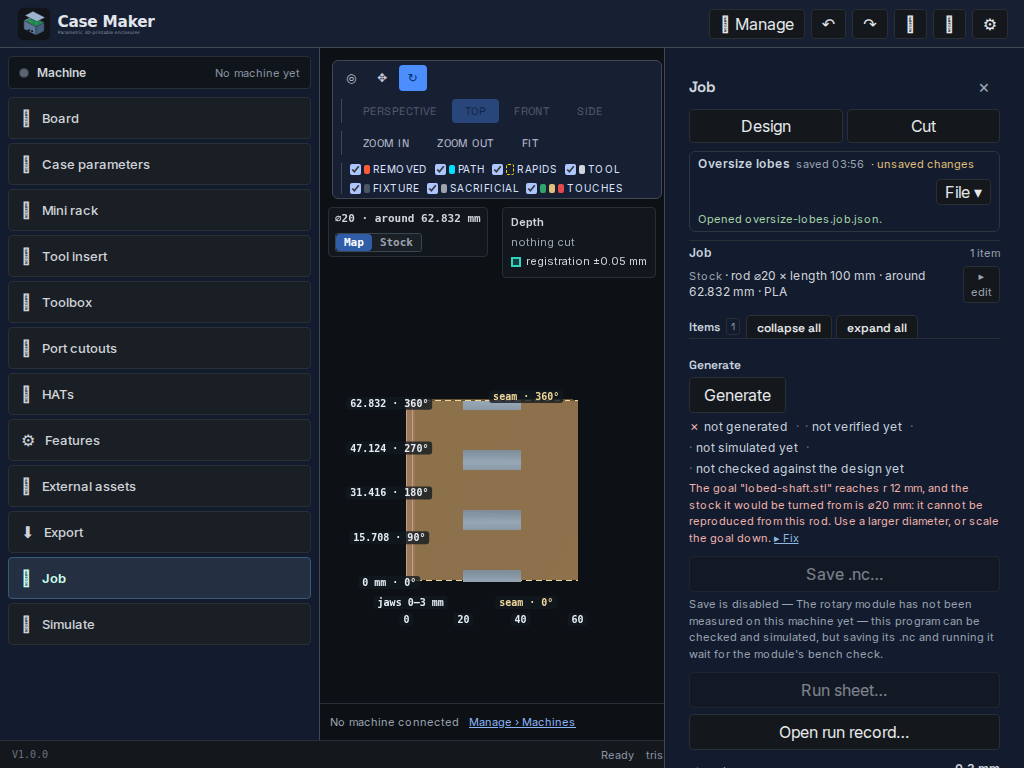
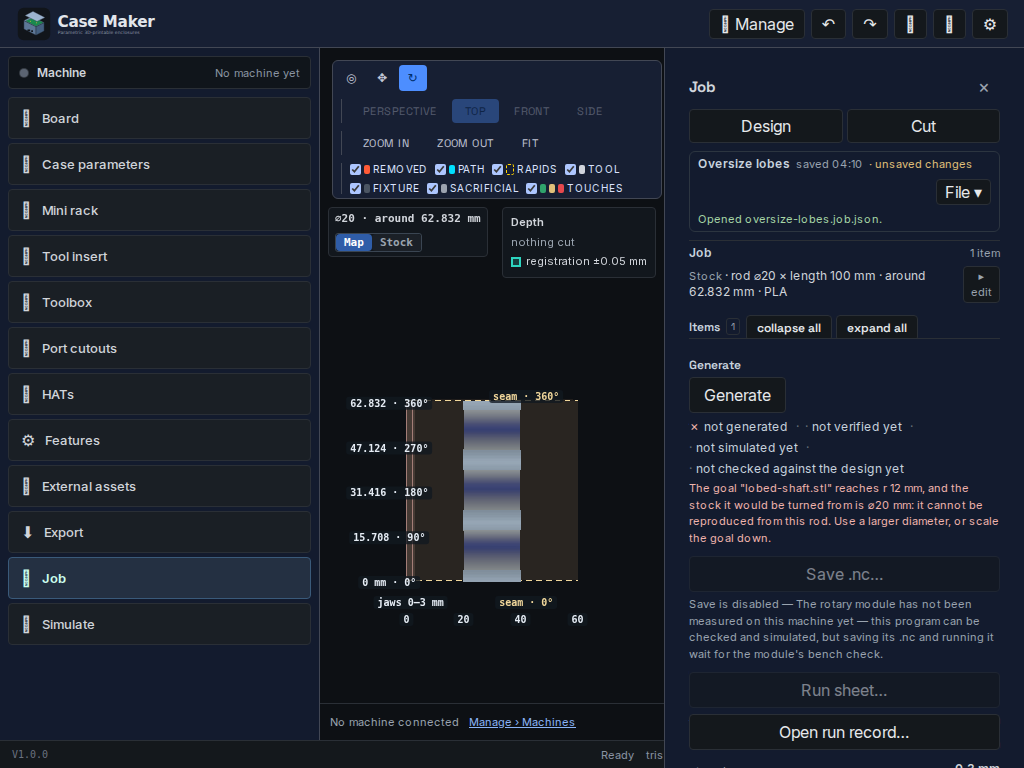
fix(sim): a rotary stock is drawn as the engine made it (#723 R-4 review follow-up)
The turning view still drew the ⌀20 rod as a flat-sided wedge with triangular gaps at both ends
and a sliver along the bottom, before and after the winding fix — because the wound mesh was never
the one on screen. `SimMeshes` runs every COLUMN stock through `cleanStockGeometry`, the #552
cleanup written for the FLAT box: drop every triangle whose normal has no Z component, then
rebuild the four sides as bbox planes. On a rod that deletes both cap fans (normal ±X) and wraps
the cylinder in a box 2R square — a flat front wall, square end plates and their corners hanging
past the silhouette. The cleanup now applies to the flat column stock only; the rotary meshes are
clean by construction (a curved heightfield, cap fans and cut-following skirt quads) and are used
exactly as the engine made them.

The depth ramp also painted the rod's END FACE blue: a cap fan converges on the axis, so its apex
"lost" a full radius. A vertex at or past R is the solid's closure, not a cut surface, and now
keeps the material's own colour — the rod's ends read as metal, not as a plunge.

PINNED IN THE E2E, measured from the canvas with every other layer off so the stock is the only
body drawn. Before → after, on the same fixed camera and step: the silhouette's width across the
axis varied 1.39× → 1.21× along its length (a cylinder foreshortens smoothly; the boxed mesh's
walls and plate corners did not); the silhouette filled its convex hull 0.938 → 1.002 (the boxed
[…]

Changed region(s): [[0.375, 0.5, 0.5625, 0.7812], [0.8125, 0.1875, 0.9375, 0.2188], [0.75, 0.6875, 0.7812, 0.7188]]

diff --git a/casemaker-app/tests/e2e/rotaryReliefPreview.spec.ts b/casemaker-app/tests/e2e/rotaryReliefPreview.spec.ts
@@ -227,6 +227,124 @@ async function canvasRowMeans(page: Page): Promise<number[]> {
   });
 }
 
+/**
+ * The stock's silhouette, measured from the canvas: its pixel count, its extent across the rod
+ * in 16 bins along the silhouette's own (PCA) axis, and how completely the pixels fill their
+ * convex hull. For a lone, closed cylinder the silhouette is a convex band, so the hull fill is
+ * ~1 and the width varies only by perspective; a mesh whose ends are missing or whose sides are
+ * boxed in its bounding box leaves notches, a wall sliver and a square plate to see instead.
+ */
+async function stockSilhouette(page: Page): Promise<{
+  count: number;
+  widths: number[];
+  wMaxOverMin: number;
+  hullFill: number;
+}> {
+  return page.evaluate(() => {
+    const empty = { count: 0, widths: [] as number[], wMaxOverMin: 0, hullFill: 0 };
+    const host = document.querySelector('[data-testid="viewport-canvas"]');
+    const canvas = host instanceof HTMLCanvasElement ? host : host?.querySelector('canvas') ?? null;
+    if (canvas === null) return empty;
+    const off = document.createElement('canvas');
+    off.width = canvas.width;
+    off.height = canvas.height;
+    const ctx = off.getContext('2d');
+    if (ctx === null) return empty;
+    ctx.drawImage(canvas, 0, 0);
+    const W = off.width,
+      H = off.height;
+    const data = ctx.getImageData(0, 0, W, H).data;
+    const at = (x: number, y: number): [number, number, number] => {
+      const i = (y * W + x) * 4;
+      return [data[i]!, data[i + 1]!, data[i + 2]!];
+    };
+    // The viewport clears to black; anything meaningfully off it is the stock (the only body on
+    // screen while every other layer is switched off).
+    const bg = at(0, 0);
+    const pts: [number, number][] = [];
+    for (let y = 0; y < H; y++) {
+      for (let x = 0; x < W; x++) {
+        const c = at(x, y);
+        if (Math.hypot(c[0] - bg[0], c[1] - bg[1], c[2] - bg[2]) > 28) pts.push([x, y]);
+      }
+    }
+    if (pts.length < 10) return { ...empty, count: pts.length };
+    // The silhouette's own axis: the rod is the one long thing in the frame.
+    let mx = 0,
+      my = 0;
+    for (const [x, y] of pts) {
+      mx += x;
+      my += y;
+    }
+    mx /= pts.length;
+    my /= pts.length;
+    let sxx = 0,
+      sxy = 0,
+      syy = 0;
+    for (const [x, y] of pts) {
+      const dx = x - mx,
+        dy = y - my;
+      sxx += dx * dx;
+      sxy += dx * dy;
+      syy += dy * dy;
+    }
+    const angle = 0.5 * Math.atan2(2 * sxy, sxx - syy);
+    const ux = Math.cos(angle),
+      uy = Math.sin(angle);
+    const vx = -uy,
+      vy = ux;
+    const us = pts.map(([x, y]) => (x - mx) * ux + (y - my) * uy);
+    const vs = pts.map(([x, y]) => (x - mx) * vx + (y - my) * vy);
+    const uMin = Math.min(...us),
+      uMax = Math.max(...us);
+    const N = 16;
+    const widths: number[] = [];
+    for (let b = 0; b < N; b++) {
+      const lo = uMin + ((uMax - uMin) * b) / N;
+      const hi = uMin + ((uMax - uMin) * (b + 1)) / N;
+      const vv: number[] = [];
+      for (let i = 0; i < pts.length; i++) if (us[i]! >= lo && us[i]! < hi) vv.push(vs[i]!);
+      if (vv.length === 0) {
+        widths.push(0);
+        continue;
+      }
+      vv.sort((a, b2) => a - b2);
+      const q = (f: number): number => vv[Math.min(vv.length - 1, Math.max(0, Math.floor(f * (vv.length - 1))))]!;
+      widths.push(Math.round((q(0.98) - q(0.02)) * 10) / 10);
+    }
+    // The convex hull (monotone chain), as the area the pixels must FILL if the outline is solid.
+    const hp = [...pts].sort((a, b2) => a[0] - b2[0] || a[1] - b2[1]);
+    const cross = (o: [number, number], a: [number, number], b2: [number, number]): number =>
+      (a[0] - o[0]) * (b2[1] - o[1]) - (a[1] - o[1]) * (b2[0] - o[0]);
+    const lower: [number, number][] = [];
+    for (const p of hp) {
+      while (lower.length >= 2 && cross(lower[lower.length - 2]!, lower[lower.length - 1]!, p) <= 0) lower.pop();
+      lower.push(p);
+    }
+    const upper: [number, number][] = [];
+    for (let i = hp.length - 1; i >= 0; i--) {
+      const p = hp[i]!;
+      while (upper.length >= 2 && cross(upper[upper.length - 2]!, upper[upper.length - 1]!, p) <= 0) upper.pop();
+      upper.push(p);
+    }
+    const hull = lower.slice(0, -1).concat(upper.slice(0, -1));
+    let hullArea = 0;
+    for (let i = 0; i < hull.length; i++) {
+      const a = hull[i]!,
+        b2 = hull[(i + 1) % hull.length]!;
+      hullArea += a[0] * b2[1] - b2[0] * a[1];
+    }
+    hullArea = Math.abs(hullArea) / 2;
+    const positive = widths.filter((w) => w > 0);
+    return {
+      count: pts.length,
+      widths,
+      wMaxOverMin: Math.round((Math.max(...positive) / Math.max(1, Math.min(...positive))) * 100) / 100,
+      hullFill: Math.round((pts.length / Math.max(1, hullArea)) * 1000) / 1000,
+    };
+  });
+}
+
 async function shoot(page: Page, name: string): Promise<void> {
   fs.mkdirSync(OUT, { recursive: true });
   await page.waitForTimeout(900);
@@ -295,9 +413,43 @@ test('the relief draws on the map and the rod, and cuts to the program the sheet
   // Mid-program, turning: the stock is a rod and the cut is part-way.
   const max = Number(await page.getByTestId('sim-scrubber').getAttribute('max'));
   await page.evaluate((step: number) => window.__caseMaker!.simSetStep(step), Math.floor(max * 0.5));
+
+  // ── THE ROD MUST BE THE ROD (#723 R-4 review) ─────────────────────────────────────────────
+  // The first pictures drew the ⌀20 rod as a flat-sided wedge: both end caps gone, a sliver
+  // along the bottom and a square plate at each end. The FLAT stock's #552 cleanup ("drop every
+  // vertical triangle, rebuild the four sides as bbox walls") was being applied to the ROTARY
+  // mesh as well. With every other layer switched off the canvas holds the stock ALONE, so the
+  // silhouette itself is what is measured.
+  for (const key of ['removed', 'path', 'rapids', 'tool', 'fixture', 'sacrificial', 'touches'] as const) {
+    const box = page.getByTestId(`viewport-layer-${key}`);
+    if (await box.isChecked()) await box.uncheck();
+  }
+  await page.getByTestId('viewport-camera-perspective').click();
+  await page.waitForTimeout(400);
+  const rod = await stockSilhouette(page);
+  expect(rod.count, 'the rod is drawn').toBeGreaterThan(3000);
+  // Across the axis the silhouette is a band whose width changes only as perspective foreshortens
+  // it along X (1.21 under this fixed camera); the boxed rod's walls and plate corners took it to
+  // 1.39 — a wedge, not a rod.
+  expect(rod.wMaxOverMin, 'the rod is a band of near-constant width along X, not a wedge').toBeLessThan(1.3);
+  // And the outline is FILLED: pixel area over the convex hull's is 1.00 for a cylinder seen
+  // obliquely, 0.94 for the boxed mesh — its plate corners and wall sliver were background inside
+  // the rod's outline, the triangular gaps at the ends.
+  expect(rod.hullFill, 'the rod’s outline is solid — no gaps at the ends and no sliver').toBeGreaterThan(0.97);
+  // End-on, down the rod's axis, the silhouette is a DISC — the end cap the flat cleanup deleted.
+  // The boxed mesh put a square plate there instead (hull fill 0.86 against a disc's 1.02).
+  await page.getByTestId('viewport-camera-side').click();
+  await page.waitForTimeout(500);
+  const endOn = await stockSilhouette(page);
+  expect(endOn.hullFill, 'down the rod’s axis the silhouette is a filled disc, not a square plate').toBeGreaterThan(0.97);
+  // Back to the turning picture — the tool for context; the other layers stay off so the cut reads.
+  await page.getByTestId('viewport-camera-perspective').click();
+  await page.getByTestId('viewport-layer-tool').check();
   await shoot(page, 'lobed-shaft-simulate-turning.png');
 
-  // Unroll at the end: the same program opened flat, at the last step.
+  // Unroll at the end: the same program opened flat, at the last step. The PATH and RAPIDS layers
+  // are left off (the review's ask): their overlay buried the cut, and the blue depth band is what
+  // this picture exists to show.
   await page.getByTestId('sim-view-unroll').click();
   await expect(page.getByTestId('sim-view-unroll')).toHaveAttribute('aria-pressed', 'true');
   await page.getByTestId('viewport-camera-top').click();

diff --git a/casemaker-app/tests/unit/simGeometry.spec.ts b/casemaker-app/tests/unit/simGeometry.spec.ts
@@ -18,7 +18,7 @@ import {
 } from '@/components/viewport/simGeometry';
 import type { CheckpointInfo, SimPath } from '@/workers/sim/session';
 import type { NodeMeshOutput } from '@/workers/geometry/meshOutput';
-import { meshFlat, meshRotaryMap, type ColumnGrid } from '@/workers/geometry/columnEngine';
+import { meshFlat, meshRotary, meshRotaryMap, type ColumnGrid } from '@/workers/geometry/columnEngine';
 
 /**
  * A five-vertex path: a rapid into the first known position (drawn as nothing — it has no
@@ -334,6 +334,30 @@ describe('#723 the stock’s removed depth is coloured', () => {
     // The cut vertex is pulled toward the deep colour: bluer than the stock and bluer than white.
     expect(cut[2] - cut[0]).toBeGreaterThan(0.2);
     expect(cut[2]).toBeLessThan(0.95);
+    geom.dispose();
+  });
+
+  it('keeps the rod’s end-cap apexes the material colour — they are closure, not cut', () => {
+    // The ROD mesh's cap fans converge on the axis at each end. Measured by the radius they lost
+    // (R), they would read as a full-depth cut and paint the rod's whole end face blue; they are
+    // the solid's closure to the axis, so they keep the base colour while the cut surface does not.
+    const grid: ColumnGrid = {
+      kind: 'rotary', nu: 1, nv: 4, u0: 0.5, du: 1, v0: 0, dv: 90, initial: 10, base: 0,
+      h: Float32Array.from([10, 10, 5, 10]),
+    };
+    const mesh = meshRotary(grid, { dx: 1, dThetaDeg: 90 });
+    const geom = geometryFromMesh(mesh);
+    applyRemovedDepthColours(geom, { map: false, radius: 10, base: '#c9a26b' });
+    const colour = geom.getAttribute('color');
+    const base = new THREE.Color('#c9a26b');
+    for (const v of [mesh.vertexCount - 2, mesh.vertexCount - 1]) {
+      expect(colour.getX(v)).toBeCloseTo(base.r, 5);
+      expect(colour.getY(v)).toBeCloseTo(base.g, 5);
+      expect(colour.getZ(v)).toBeCloseTo(base.b, 5);
+    }
+    // The θ = 180° column (r = 5) IS the cut surface: pulled toward the deep colour.
+    const cut = [colour.getX(2), colour.getY(2), colour.getZ(2)];
+    expect(cut[2]! - cut[0]!).toBeGreaterThan(0.2);
     geom.dispose();
   });
 });

diff --git a/casemaker-app/src/components/viewport/SimMeshes.tsx b/casemaker-app/src/components/viewport/SimMeshes.tsx
@@ -152,12 +152,20 @@ export function SimMeshes() {
   // exact sweeper's Manifold stock is already clean and its vertical faces (pocket walls) must be
   // kept. The column engine is the one that never emits a removal ghost, so that is the honest
   // discriminator between the two stock shapes.
-  const cleanStock = meshes?.removal === null;
+  //
+  // #723 R-4 review — NOT for a ROTARY stock. That cleanup is written for the FLAT box: it drops
+  // every triangle whose normal has no Z component (for a rod, its two end caps) and rebuilds the
+  // four sides as bbox planes (for a rod, a box 2R square with the cylinder inside it), which drew
+  // the turning view as a flat-sided wedge with a sliver along the bottom. The rotary meshes are
+  // already clean by construction: a curved heightfield surface, cap fans and skirt quads that
+  // follow the cut — so they are used exactly as the engine made them.
+  const rotary = info !== null && info.summary?.rotary === true;
+  const cleanStock = meshes?.removal === null && !rotary;
   const stockGeom = useMeshGeometry(stockMesh, cleanStock ? cleanStockGeometry : geometryFromMesh);
   // #723 R-4 review — A ROTARY STOCK IS COLOURED BY THE RADIUS THE CUT TOOK, so a heightfield
   // reads as cut from a top camera (the unrolled view showed no removal at all). It is the same
   // buffer with one attribute added; a flat program's mesh is untouched.
-  const rotaryStock = info !== null && info.summary?.rotary === true && stockRadius !== null;
+  const rotaryStock = rotary && stockRadius !== null;
   useMemo(() => {
     if (rotaryStock && stockGeom !== null) {
       applyRemovedDepthColours(stockGeom, { map: mapView, radius: stockRadius, base: STOCK_COLOR });

diff --git a/casemaker-app/src/components/viewport/simGeometry.ts b/casemaker-app/src/components/viewport/simGeometry.ts
@@ -73,7 +73,8 @@ const PROBE_SHANK_LENGTH_MM = 8;
  *
  * `map` chooses the frame: the map's height is the radius lost (z ≤ 0, the unrolled sheet), the
  * stock's is the rod's own radius at (y, z) about the X axis. `radius` is the stock's (R); a
- * vertex outside it (a skirt to the axis) takes the deepest colour.
+ * vertex at or past it is the solid's CLOSURE to the axis (a cut cannot lose more than R), which
+ * is not a cut surface and keeps the material's own colour.
  */
 export const SIM_CUT_COLOR = '#1e40af';
 
@@ -101,7 +102,11 @@ export function applyRemovedDepthColours(
   const colours = new Float32Array(count * 3);
   const base = new THREE.Color(opts.base);
   for (let i = 0; i < count; i++) {
-    const t = Math.min(1, depths[i]! / maxDepth);
+    // A vertex at (or past) the stock's own radius is the solid's CLOSURE, not a cut surface: the
+    // rod's end-cap fan converges on the axis (the map's bottom face lies on it). Coloured by the
+    // radius it lost, a fan apex would read as a full-depth cut and paint the rod's end face blue.
+    const closure = depths[i]! >= opts.radius * 0.999;
+    const t = closure ? 0 : Math.min(1, depths[i]! / maxDepth);
     const colour = base.clone().lerp(deep, t);
     colours[i * 3] = colour.r;
     colours[i * 3 + 1] = colour.g;
